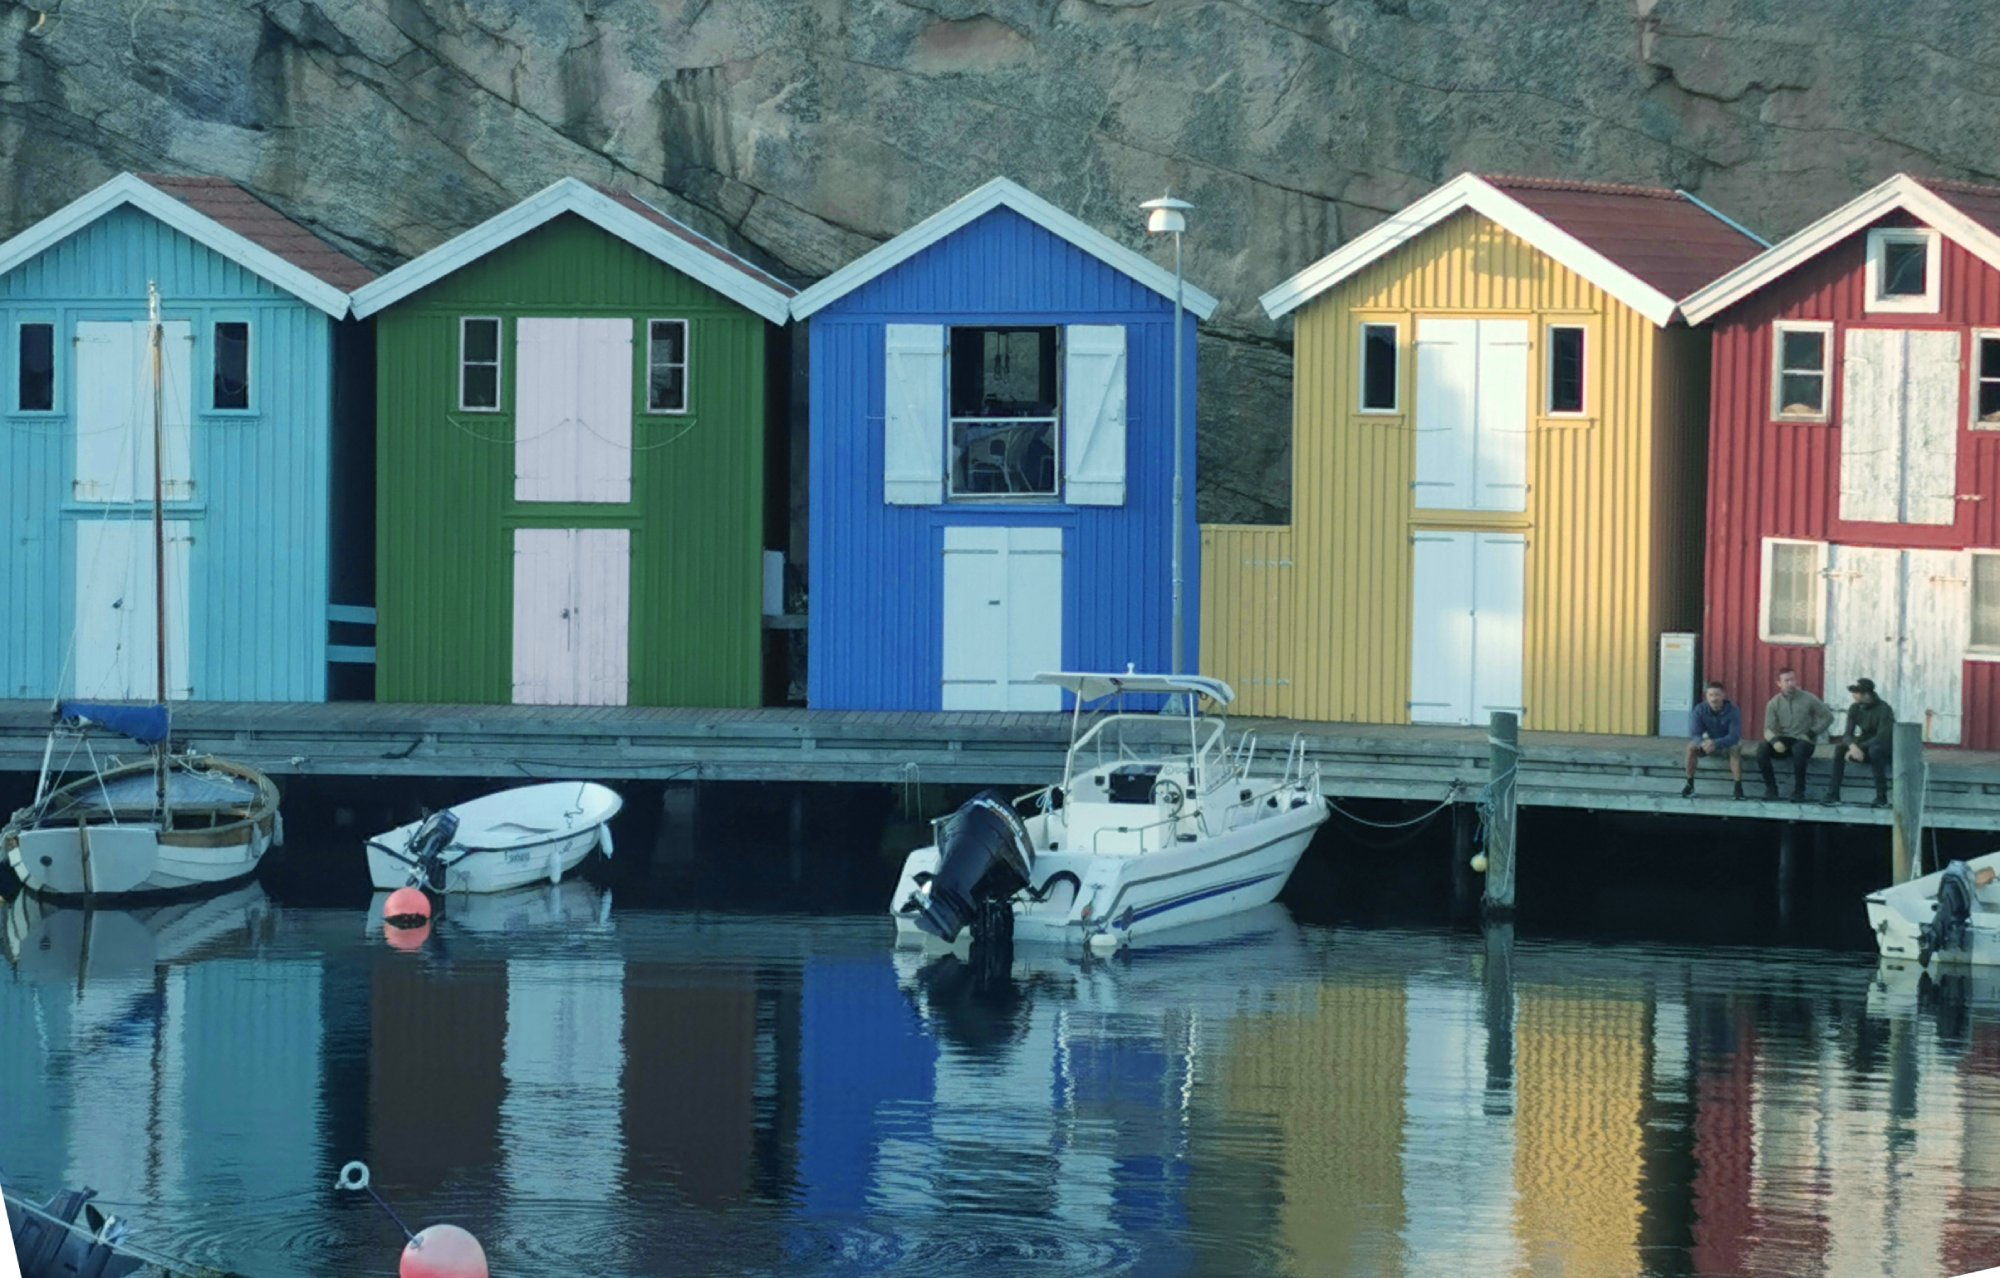
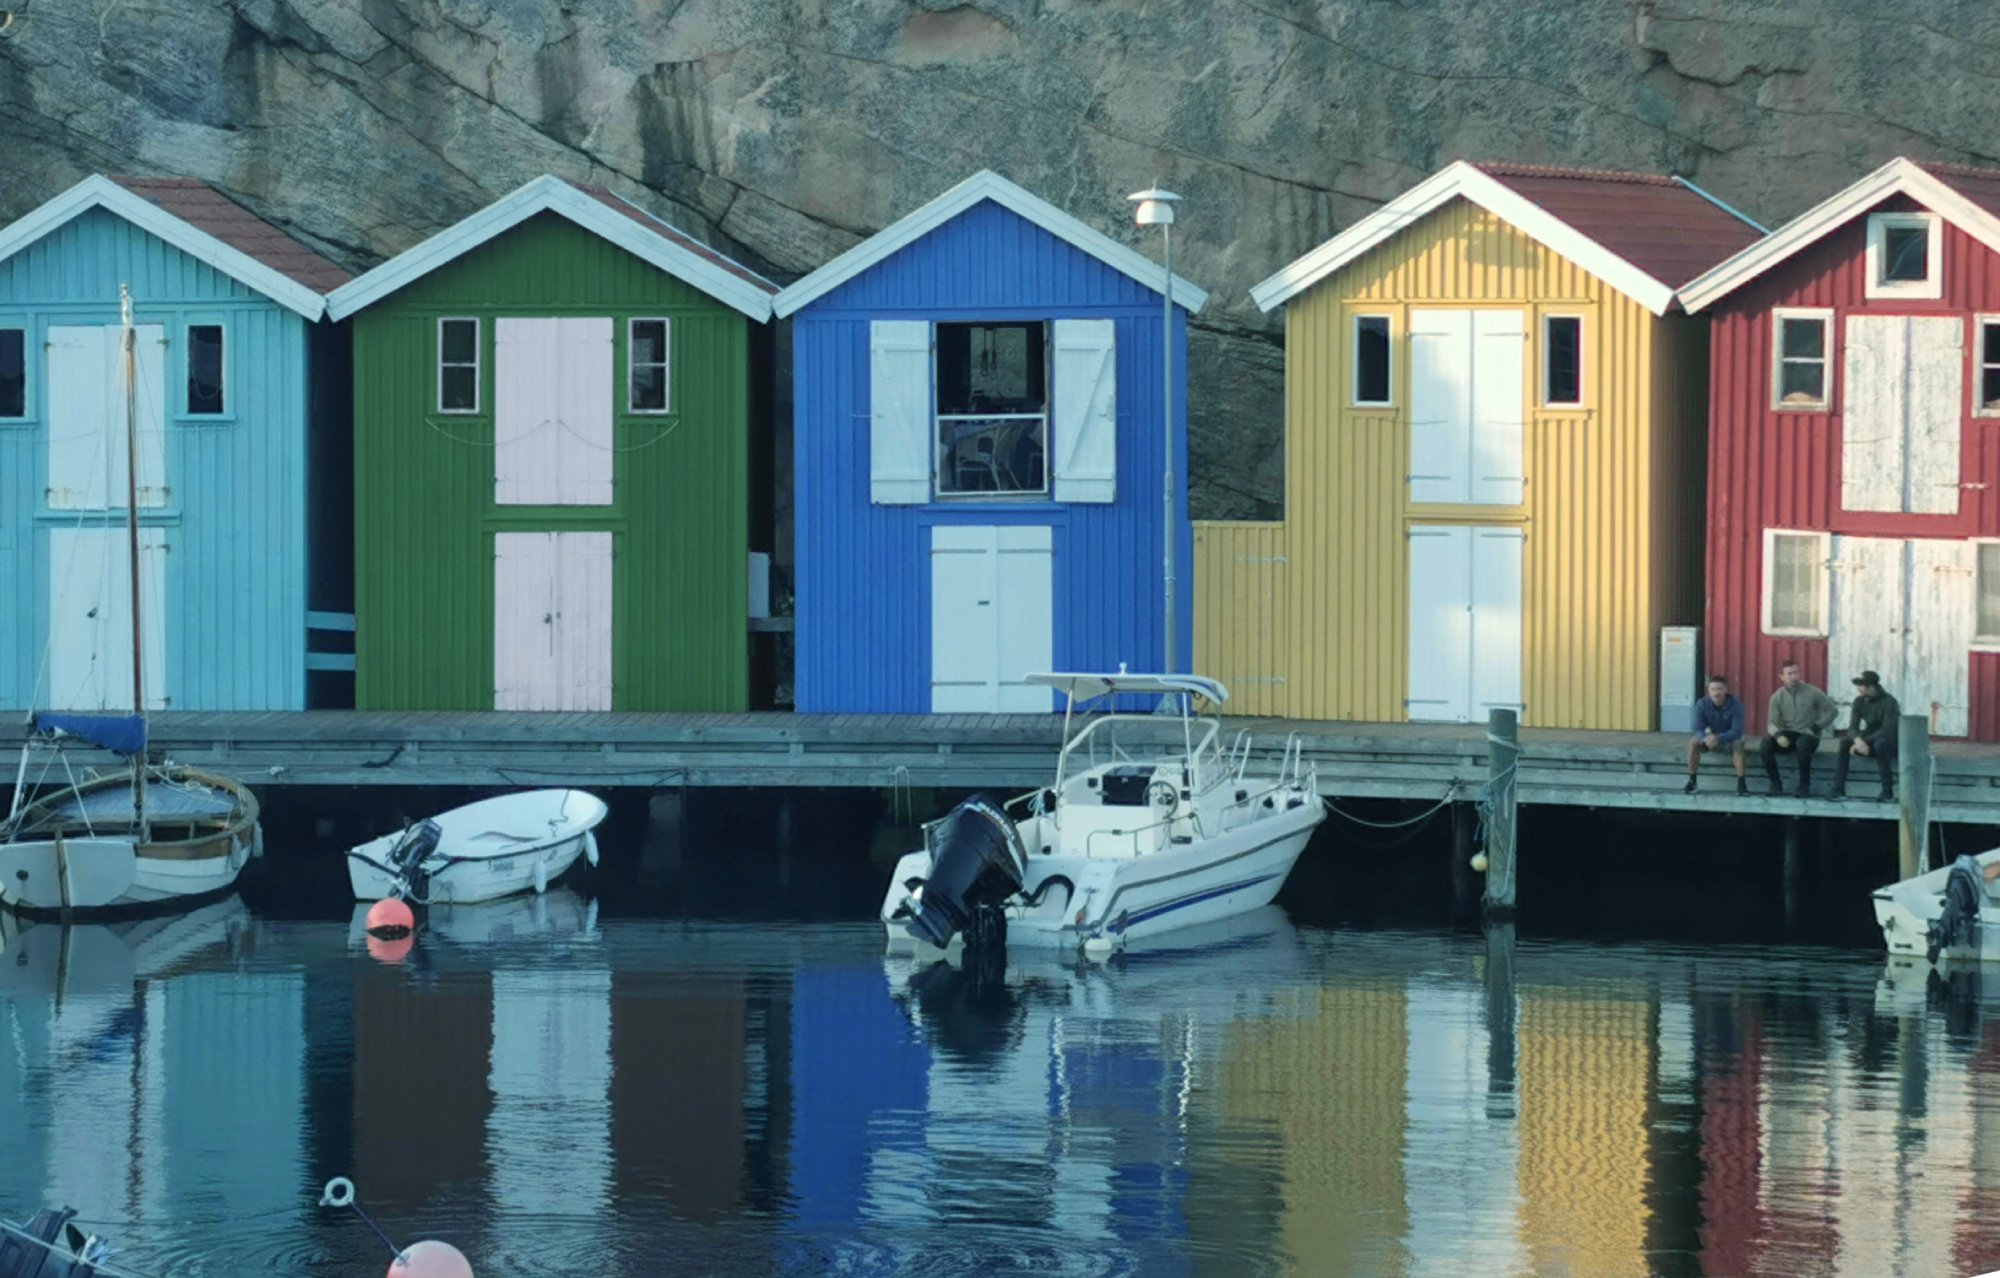
Lade till beskrivningar av hur bilderna har redigerats

Changed region(s): [[0.0, 0.0, 1.0, 1.0], [0.961, 0.0305, 0.992, 0.061], [0.713, 0.7629, 0.744, 0.7934]]

diff --git a/image-editing.html b/image-editing.html
@@ -59,9 +59,12 @@
                         <figcaption>Redigerad</figcaption>
                     </figure>
                 </div>
-                <p class="image-edit-description">Lorem ipsum dolor sit amet consectetur adipisicing elit. Esse sequi
-                    provident quos eligendi excepturi necessitatibus, at repellat, sit voluptas, nulla harum incidunt
-                    nostrum et quam? Maxime nostrum impedit quo quis.</p>
+                <p class="image-edit-description">I bild ett har jag roterat bilden för att få den rak och sedan
+                    beskurit den för att behålla samma proportioner som originalbilden. Sedan har jag ändrat färg på ett
+                    av de röda husen genom att skapa en mask på huset där jag ändrat nyansen till grön. Därefter har jag
+                    ökat mättnaden på hela bilden för att göra färgerna starkare och ändrat färgbalansen för att ge
+                    bilden en turkos/blå ton. Till sist har jag minskat bildens storlek och sänkt kvaliteten till 85% av
+                    originalet.</p>
             </section>
             <section>
                 <h2>Bild 2</h2>
@@ -75,9 +78,11 @@
                         <figcaption>Redigerad</figcaption>
                     </figure>
                 </div>
-                <p class="image-edit-description">Lorem ipsum dolor sit amet consectetur adipisicing elit. Esse sequi
-                    provident quos eligendi excepturi necessitatibus, at repellat, sit voluptas, nulla harum incidunt
-                    nostrum et quam? Maxime nostrum impedit quo quis.</p>
+                <p class="image-edit-description">I bild två har jag tagit bort den suddiga fisken från det övre högra
+                    hörnet genom att använda kloningsverktyget och lappverktyget. Dessa verktyg användes för att ersätta
+                    fisken med delar av det omgivande vattnet. Därefter ändrade jag färgbalansen för att minska de gröna
+                    tonerna och öka de blåa. Till sist har jag minskat bildens storlek och sänkt kvaliteten till 85% av
+                    originalet.</p>
             </section>
             <section>
                 <h2>Bild 3</h2>
@@ -91,9 +96,14 @@
                         <figcaption>Redigerad</figcaption>
                     </figure>
                 </div>
-                <p class="image-edit-description">Lorem ipsum dolor sit amet consectetur adipisicing elit. Esse sequi
-                    provident quos eligendi excepturi necessitatibus, at repellat, sit voluptas, nulla harum incidunt
-                    nostrum et quam? Maxime nostrum impedit quo quis.</p>
+                <p class="image-edit-description">I bild tre har jag färglagt delar av brandbilen genom att skapa ett
+                    rött respektive gult lager med masker där jag fyllt i de delar som ska färgläggas. För att markera
+                    delarna som skulle färgläggas har jag använt en kombination av trollspöet, som automatiskt markerar
+                    delar med liknande färg, och manuellt ritande med penseln. För att brandbilens detaljer skulle synas
+                    genom färgläggningen sänkte jag opaciteten på färgfyllningslagerna och sedan ökade jag mättnaden för
+                    att göra färgerna starkare. Därefter ändrade jag färgbalansen i hela bilden för att ge den en
+                    turkos/blå ton. Till sist minskade jag bildens storlek och sänkte kvaliteten till 85% av originalet.
+                </p>
             </section>
         </section>
     </main>
